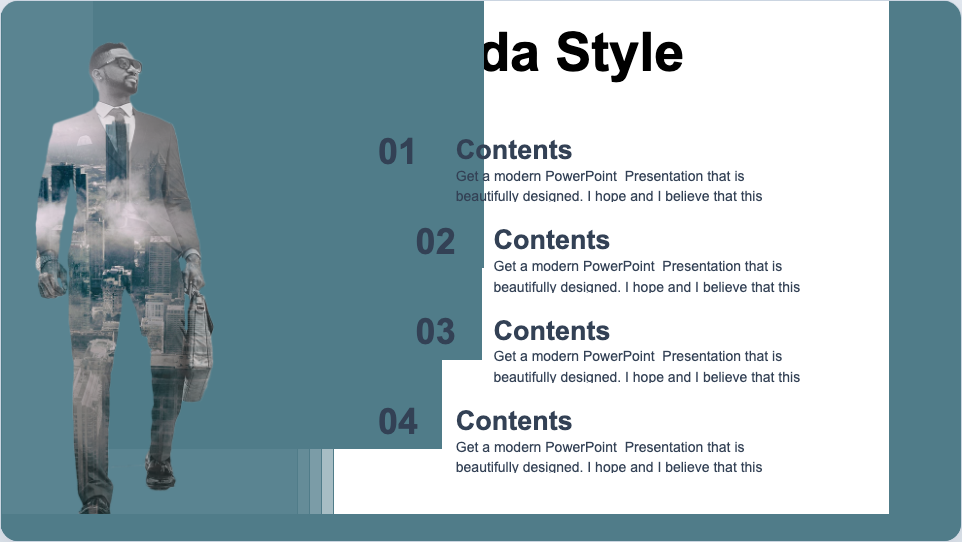
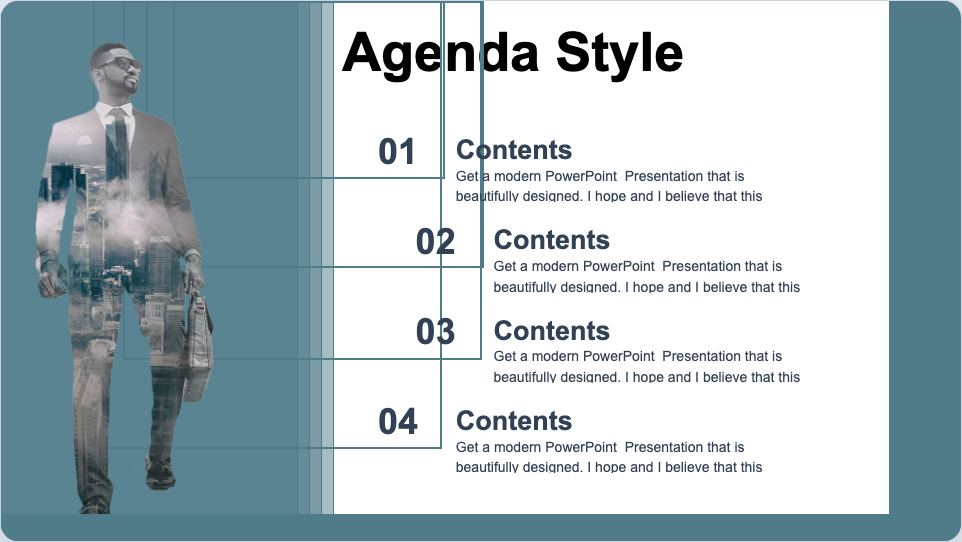
Stop template arcs from inheriting bogus fills and close the last low-score slides
The last failing screenshot cases were not broad renderer failures anymore but a
specific template problem: curved decorative shapes were inheriting fill colors
through style references even though they should behave like stroke-only rails.
That false fill collapsed the left-side composition on slides such as sample3
slide2. This stage narrows fill fallback for custom line-driven shapes, refreshes
the screenshot evidence, and lifts the declared corpus subset so no tracked
slide remains below the current 75-point floor.

Constraint: Style-reference fallback must improve template fidelity without painting stroke-only custom geometry as solid blocks
Constraint: The screenshot report is the release-blocking evidence for this wave and must be regenerated after every parser-level template fix
Rejected: Keep applying fillRef to every custom shape with a line | it caused decorative rails to obscure content and kept low-score slides stuck
Rejected: Waive the final low-score slides as exceptions | the corpus subset is small enough to fix directly, so exceptions would be premature
Confidence: medium
Scope-risk: moderate
Reversibility: clean
Directive: When a style-reference fallback helps one template family but harms another, specialize by geometry role instead of dropping scene semantics entirely
[…]

Changed region(s): [[0.3119, 0.0, 0.499, 0.8266]]

diff --git a/packages/pptx/src/parser.ts b/packages/pptx/src/parser.ts
@@ -168,6 +168,7 @@ function parseShape(
   const textNodes = findElementsByLocalName(shape, 't');
   const shapeProperties = xmlChild<Record<string, unknown>>(shape, 'p:spPr');
   const style = xmlChild<Record<string, unknown>>(shape, 'p:style');
+  const shapeType = parseShapeType(shapeProperties);
   const transform = applyTransformContext(parseTransform(shapeProperties), context);
 
   return {
@@ -176,9 +177,9 @@ function parseShape(
     text: textNodes.map((node) => xmlText(node)).join(''),
     placeholderType: xmlAttr(placeholder, 'type'),
     placeholderIndex: xmlAttr(placeholder, 'idx') ?? undefined,
-    shapeType: parseShapeType(shapeProperties),
+    shapeType,
     transform,
-    fill: parseFill(shapeProperties, relationships, theme, style),
+    fill: parseFill(shapeProperties, relationships, theme, style, shapeType),
     line: parseLine(shapeProperties, theme, style),
     textStyle: parseTextStyle(shape, theme)
   };
@@ -201,7 +202,7 @@ function parsePicture(picture: Record<string, unknown>, relationships: ReturnTyp
     text: '',
     shapeType: 'picture',
     transform,
-    fill: parseFill(shapeProperties, relationships, theme, style),
+    fill: parseFill(shapeProperties, relationships, theme, style, 'picture'),
     line: parseLine(shapeProperties, theme, style),
     media: {
       type: 'image',
@@ -460,7 +461,8 @@ function parseFill(
   shapeProperties: Record<string, unknown> | undefined,
   relationships: ReturnType<typeof relationshipsFor>,
   theme?: PresentationTheme,
-  styleNode?: Record<string, unknown>
+  styleNode?: Record<string, unknown>,
+  shapeType?: string
 ): PresentationFill | undefined {
   if (!shapeProperties) {
     return undefined;
@@ -500,6 +502,9 @@ function parseFill(
   }
 
   const styleFill = xmlChild<Record<string, unknown>>(styleNode, 'a:fillRef');
+  if (shapeType === 'custom' && xmlChild<Record<string, unknown>>(shapeProperties, 'a:ln')) {
+    return undefined;
+  }
   const styleFillColor = resolveColor(styleFill, theme);
   if (styleFillColor?.color) {
     return {
